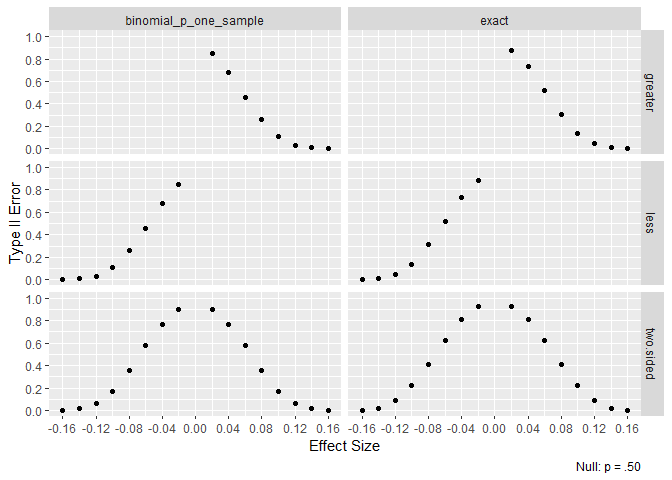
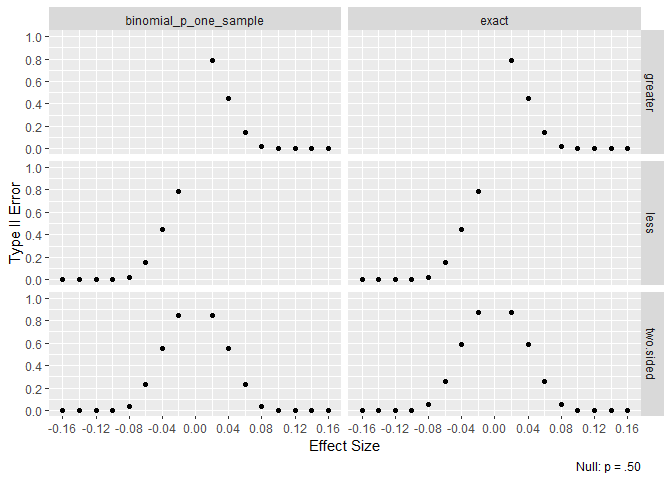
rerun update

diff --git a/README.md b/README.md
@@ -7,13 +7,13 @@ from random number generators and hypothesis test done. The first five
 rows look like
 
     #> # A tibble: 180,000 × 8
-    #>   test                      mu variance      stat pvalue alt       CI_LB CI_UB
-    #>   <chr>                  <dbl>    <dbl>     <dbl>  <dbl> <chr>     <dbl> <dbl>
-    #> 1 gaussian_mu_one_sample    -4        1 0.294      0.588 two.sided -4.09 -3.84
-    #> 2 gaussian_mu_one_sample    -4        1 0.0000959  0.992 two.sided -4.15 -3.85
-    #> 3 gaussian_mu_one_sample    -4        1 0.0468     0.829 two.sided -4.12 -3.85
-    #> 4 gaussian_mu_one_sample    -4        1 0.0224     0.881 two.sided -4.12 -3.86
-    #> 5 gaussian_mu_one_sample    -4        1 0.118      0.732 two.sided -4.11 -3.84
+    #>   test                      mu variance   stat pvalue alt       CI_LB CI_UB
+    #>   <chr>                  <dbl>    <dbl>  <dbl>  <dbl> <chr>     <dbl> <dbl>
+    #> 1 gaussian_mu_one_sample    -4        1 0.251   0.617 two.sided -4.07 -3.89
+    #> 2 gaussian_mu_one_sample    -4        1 1.79    0.181 two.sided -4.03 -3.85
+    #> 3 gaussian_mu_one_sample    -4        1 1.30    0.255 two.sided -4.04 -3.86
+    #> 4 gaussian_mu_one_sample    -4        1 0.453   0.501 two.sided -4.11 -3.94
+    #> 5 gaussian_mu_one_sample    -4        1 0.0143  0.905 two.sided -4.09 -3.92
     #> # … with 179,995 more rows
     #> # ℹ Use `print(n = ...)` to see more rows
 
@@ -33,7 +33,7 @@ type I error rates.
     #> # … with 25 more rows
     #> # ℹ Use `print(n = ...)` to see more rows
 
-Each simulated experiment is based on a sample size of 200. Each
+Each simulated experiment is based on a sample size of 500. Each
 combination of true hypothesis, parameter value, and test are repeated
 2,000 times.
 
@@ -49,12 +49,13 @@ similar error rates to exact tests.
 
 # One Way Type I Error Rate
 
-Compared to the one sample tests, type I error rates have increased.
+Compared to the one sample tests, type I error rates are further from
+the .05 target.
 
-For the one sample tests, all 200 data points are associated with one
-group. The one parameter is estimated using all 200 data points. For the
+For the one sample tests, all 500 data points are associated with one
+group. The one parameter is estimated using all 500 data points. For the
 one way tests, there are two groups and therefore two parameters
-estimated. Each parameter is based on only 100 data points each. The
+estimated. Each parameter is based on only 250 data points each. The
 cost of less data per parameter is a type I error further from the
 target 5%.
 

diff --git a/type II/README.md b/type II/README.md
@@ -7,13 +7,13 @@ is held constant and effect size varies. The first five data points look
 like
 
     #> # A tibble: 96,000 × 5
-    #>   test                   effectSize  stat    pvalue alt      
-    #>   <chr>                       <dbl> <dbl>     <dbl> <chr>    
-    #> 1 gaussian_mu_one_sample       -0.3  15.7 0.0000759 two.sided
-    #> 2 gaussian_mu_one_sample       -0.3  15.2 0.0000983 two.sided
-    #> 3 gaussian_mu_one_sample       -0.3  16.2 0.0000557 two.sided
-    #> 4 gaussian_mu_one_sample       -0.3  17.3 0.0000319 two.sided
-    #> 5 gaussian_mu_one_sample       -0.3  14.9 0.000113  two.sided
+    #>   test                   effectSize  stat   pvalue alt      
+    #>   <chr>                       <dbl> <dbl>    <dbl> <chr>    
+    #> 1 gaussian_mu_one_sample       -0.3  36.3 1.70e- 9 two.sided
+    #> 2 gaussian_mu_one_sample       -0.3  26.0 3.40e- 7 two.sided
+    #> 3 gaussian_mu_one_sample       -0.3  28.0 1.19e- 7 two.sided
+    #> 4 gaussian_mu_one_sample       -0.3  54.7 1.39e-13 two.sided
+    #> 5 gaussian_mu_one_sample       -0.3  44.1 3.04e-11 two.sided
     #> # … with 95,995 more rows
     #> # ℹ Use `print(n = ...)` to see more rows
 
@@ -23,16 +23,16 @@ Multiple experiments are aggregated to calculate type II error rates.
     #> # Groups:   test [2]
     #>   test                   effectSize Type_II_Error
     #>   <chr>                       <dbl>         <dbl>
-    #> 1 gaussian_mu_one_sample      -0.3           0.01
-    #> 2 gaussian_mu_one_sample      -0.25          0.04
-    #> 3 gaussian_mu_one_sample      -0.2           0.15
-    #> 4 gaussian_mu_one_sample      -0.15          0.37
-    #> 5 gaussian_mu_one_sample      -0.1           0.64
+    #> 1 gaussian_mu_one_sample      -0.3           0   
+    #> 2 gaussian_mu_one_sample      -0.25          0   
+    #> 3 gaussian_mu_one_sample      -0.2           0   
+    #> 4 gaussian_mu_one_sample      -0.15          0.07
+    #> 5 gaussian_mu_one_sample      -0.1           0.33
     #> # … with 19 more rows
     #> # ℹ Use `print(n = ...)` to see more rows
 
 Like type I calculations, each simulated experiment is based on a sample
-size of 200. Each combination of effect size and test are repeated 2,000
+size of 500. Each combination of effect size and test are repeated 2,000
 times. Where possible, exact tests are included for comparison.
 
 # Overall Type II Error Rate

diff --git a/type I/README.md b/type I/README.md
@@ -3,7 +3,7 @@
 
 Asymptotic type I error rates for LRTesteR’s likelihood ratio tests are
 estimated via simulation. Calculations are based on 2,000 iterations and
-a sample size of 200. Where possible, exact tests are included for
+a sample size of 500. Where possible, exact tests are included for
 comparison.
 
 Most tests have a type I error rate of .05. Exploring each test one by
